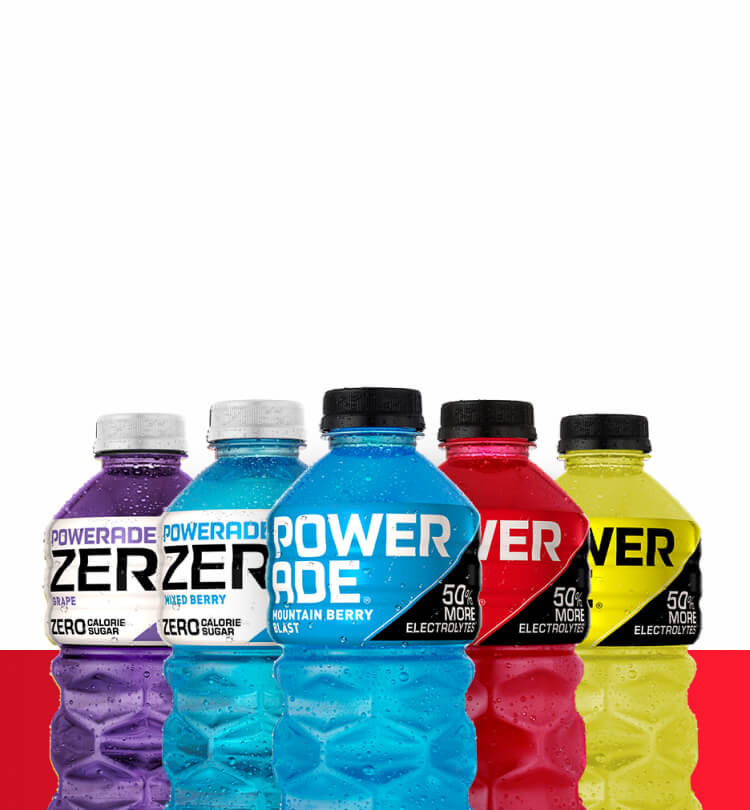
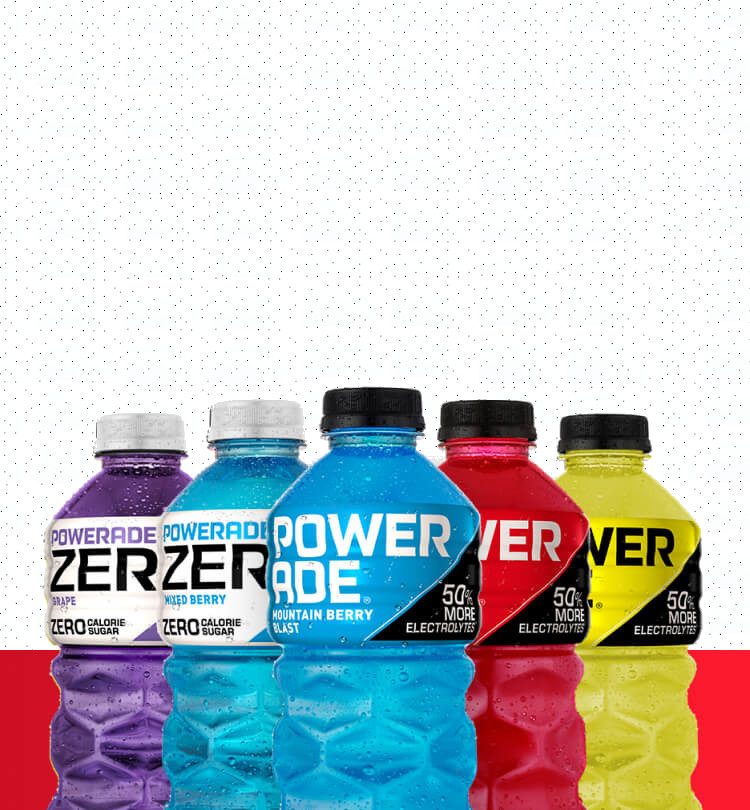
footer responsivo

diff --git a/src/components/footer/styles.ts b/src/components/footer/styles.ts
@@ -4,46 +4,114 @@ export const FooterStyles = styled.footer`
     .topFooter{
         width: 100vw;
         height: 283px;
-        background-image: url('./footer/footer.png');
-        background-repeat: no-repeat;
-        background-size: 100% 100%;
+        background-image: url('./backgroundWhite.png');
+        background-position: center center;
+        display: flex;
+        justify-content: center;
+        margin-top: -20px;
 
-        .title-footer{
+        .imgFooter{
             width: 100%;
-            height: 50px;
-            padding-left: 105px;
-            font-size: 2em;
-            font-weight: bold;
-            color: black;
-            position: relative;
-            z-index: 2;
-        }
+            height: 100%;
+            background-image: url('./footer/footerMobile.jpg');
+            background-repeat: no-repeat;
+            background-size: 100% 100%;
 
-        .btn-Learn{
-            padding: 15px 60px;
-            background-color: black;
-            color: white;
-            border: 3px solid black;
-            border-radius: 5px;
-            font-family: "Arial", "sans-serif";
-            font-weight: bold;
-            font-size: 18px;
-            cursor: pointer;
-
-            :hover{
-                background-color: transparent;
-                color: black;
+            @media screen and (min-width: 540px){
+                height: 477px;
             }
+
+            @media screen and (min-width: 768px){
+                max-width: 1920px;
+                min-width: 1440px;
+                background-image: url('./footer/footer.png');
+                height: 100%;
+            }
+
+            .text-container{
+                width: 100%;
+                height: 100%;
+                display: flex;
+                justify-content: center;
+                margin-top: 0px;
+
+                @media screen and (min-width: 540px){
+                    margin-top: 60px;
+                }
+
+                @media screen and (min-width: 768px){
+                    margin-top: 0px;
+                }
+
+                .title-footer{
+                    width: 100vw;
+                    height: 50px;
+                    position: relative;
+                    z-index: 2;
+
+                    @media screen and (min-width: 1200px){
+                        width: 1200px;
+                    }
+
+                    .title-section{
+                        font-size: 32px;
+                        font-weight: bold;
+                        color: black;
+                        font-family: "Druk-Italic";
+                        text-align: center;
+
+                        @media screen and (min-width: 768px){
+                            text-align: start;
+                            font-size: 2em;
+                        }
+                    }
+
+                    .btn-Learn{
+                        padding: 15px 60px;
+                        background-color: black;
+                        margin-left: 10%;
+                        width: 80vw;
+                        color: white;
+                        border: 3px solid black;
+                        border-radius: 5px;
+                        font-family: "Arial", "sans-serif";
+                        font-weight: bold;
+                        font-size: 18px;
+                        cursor: pointer;
+
+                        @media screen and (min-width: 768px){
+                            width: auto;
+                            margin-left: 0px;
+                        }
+            
+                        :hover{
+                            background-color: transparent;
+                            color: black;
+                        }
+                    }
+                }
+            }   
         }
     }
 
     footer{
+        margin-top: 0px;
         width: 100vw;
         height: 400px;
         background-color: black;
         padding-top: 50px;
         display: flex;
         justify-content: center;
+        position: relative;
+        z-index: 10;
+
+        @media screen and (min-width: 540px){
+            margin-top: 120px;
+        }
+
+        @media screen and (min-width: 768px){
+            margin-top: 0px;
+        }
 
         .container{
             width: 100%;
@@ -56,22 +124,30 @@ export const FooterStyles = styled.footer`
 
                 img{
                     width: auto;
-                    height: 50px; 
+                    height: 40px; 
+
+                    @media screen and (min-width: 540px){
+                        height: 50px; 
+                    }
                 }
             }
 
             .textContainer{
-                width: 800px;
+                width: 100%;
                 height: 70%;
                 margin: 0 auto;
                 text-align: center;
         
                 h3{
                     margin-top: 20px;
-                    font-size: 1.2em;
+                    font-size: 1em;
                     font-weight: 500;
                     font-family: 'Montserrat', sans-serif;
                     color: white;
+
+                    @media screen and (min-width: 540px){
+                        font-size: 1.2em;
+                    }
                 }
 
                 ul{
@@ -92,10 +168,14 @@ export const FooterStyles = styled.footer`
                     margin-top: 80px;
 
                     p{
-                        font-size: 1em;
+                        font-size: 0.8em;
                         font-weight: 500;
                         font-family: 'Montserrat', sans-serif;
                         color: white;
+
+                        @media screen and (min-width: 540px){
+                            font-size: 1em;
+                        }
 
                         span{
                             color: #04adee;

diff --git a/src/App.css b/src/App.css
@@ -1,0 +1,70 @@
+.topFooter{
+    width: 100vw;
+    height: 283px;
+    background-image: url('./backgroundWhite.png');
+    background-position: center center;
+    display: flex;
+    justify-content: center;
+    margin-top: -20px;
+
+    .imgFooter{
+        width: 100%;
+        height: 100%;
+        background-image: url('./footer/footerMobile.jpg');
+        background-repeat: no-repeat;
+        background-size: 100% 100%;
+
+        @media screen and (min-width: 768px){
+            max-width: 1920px;
+            min-width: 1440px;
+            background-image: url('./footer/footer.png');
+        }
+
+        .text-container{
+            width: 100%;
+            height: 100%;
+            display: flex;
+            justify-content: center;
+
+            .title-footer{
+                width: 100vw;
+                height: 50px;
+                position: relative;
+                z-index: 2;
+
+                @media screen and (min-width: 1200px){
+                    width: 1200px;
+                }
+
+                @media screen and (min-width: 768px){
+                    font-size: 2em;
+                }
+
+                .title-section{
+                    font-size: 2em;
+                    font-weight: bold;
+                    color: white;
+                    font-family: "Druk-Italic";
+                }
+
+                .btn-Learn{
+                    padding: 15px 60px;
+                    background-color: black;
+                    color: white;
+                    border: 3px solid black;
+                    border-radius: 5px;
+                    font-family: "Arial", "sans-serif";
+                    font-weight: bold;
+                    font-size: 18px;
+                    cursor: pointer;
+        
+                    :hover{
+                        background-color: transparent;
+                        color: black;
+                    }
+                }
+            }
+        }   
+    }
+}
+

diff --git a/src/components/sectionPartners/styles.ts b/src/components/sectionPartners/styles.ts
@@ -14,7 +14,7 @@ export const SectionStyles = styled.section`
             position: absolute;
             left: 50%;
             top: 50%;
-            transform: translateX(-50%) translateY(-50%) scale(5);
+            transform: translateX(-50%) translateY(-50%);
             z-index: 1;
 
             @media screen and (min-width: 630px){
@@ -101,7 +101,7 @@ export const SectionStyles = styled.section`
             text-align: center;
 
             img{
-                width: 50%;
+                width: 30%;
                 height: auto;
 
                 @media screen and (min-width: 630px){
@@ -138,5 +138,14 @@ export const SectionStyles = styled.section`
         height: 170px;
         background-image: url('./backgroundWhite.png');
         background-position: center center;
+
+        
+        @media screen and (min-width: 540px){
+            height: 50px;
+        }
+
+        @media screen and (min-width: 768px){
+            height: 170px;
+        }
     }
 `;

diff --git a/src/components/footer/index.tsx b/src/components/footer/index.tsx
@@ -5,12 +5,16 @@ export const Footer = () => {
   return (
     <FooterStyles>
       <div className="topFooter" id="contact">
-        <div className="title-footer">
-              <h1>
-                <b>FIND POWERADE NEAR YOU</b>
-              </h1>
-              <button className="btn-Learn">FIND NOW</button>
-        </div>
+        <div className="imgFooter">
+          <div className="text-container">
+            <div className="title-footer">
+                    <h1 className="title-section">
+                      FIND POWERADE NEAR YOU
+                    </h1>
+                  <button className="btn-Learn">FIND NOW</button>
+            </div>
+          </div>
+        </div>  
       </div>
       <footer>
         <div className="container">
